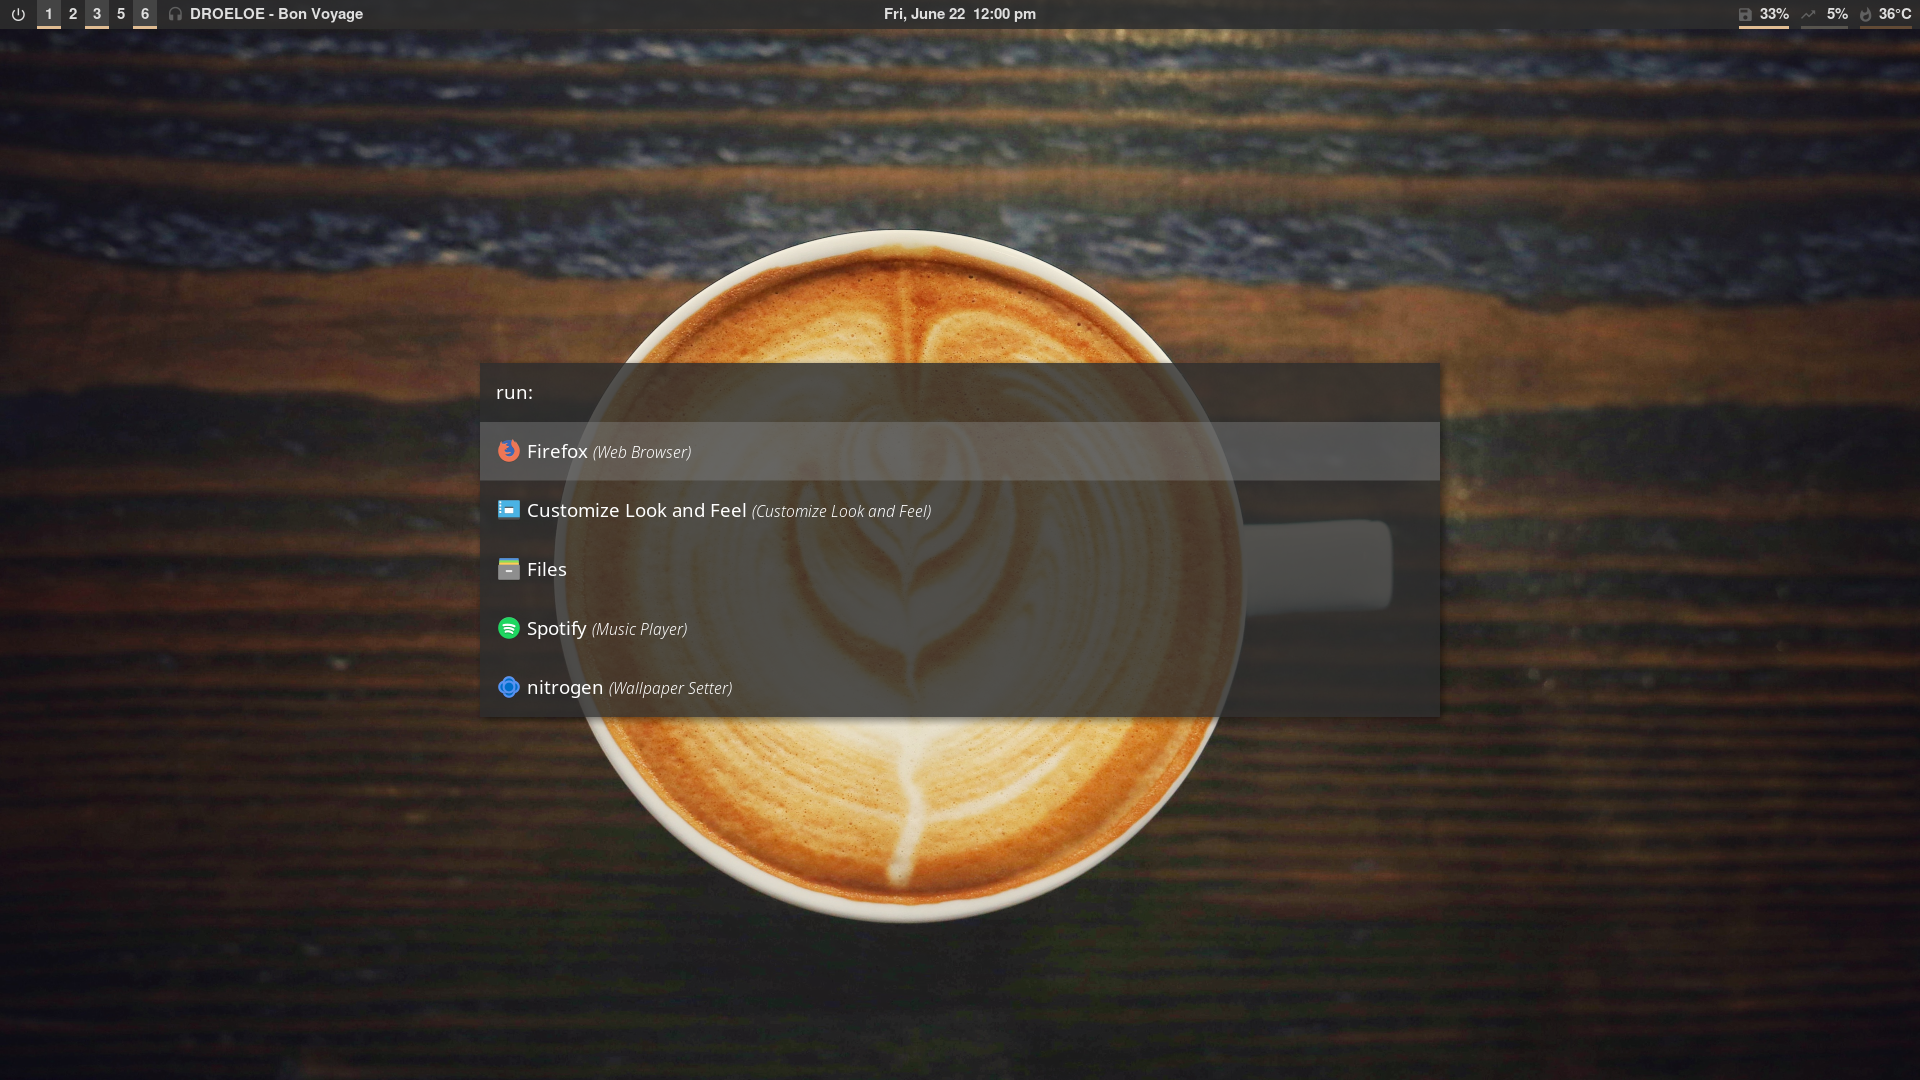
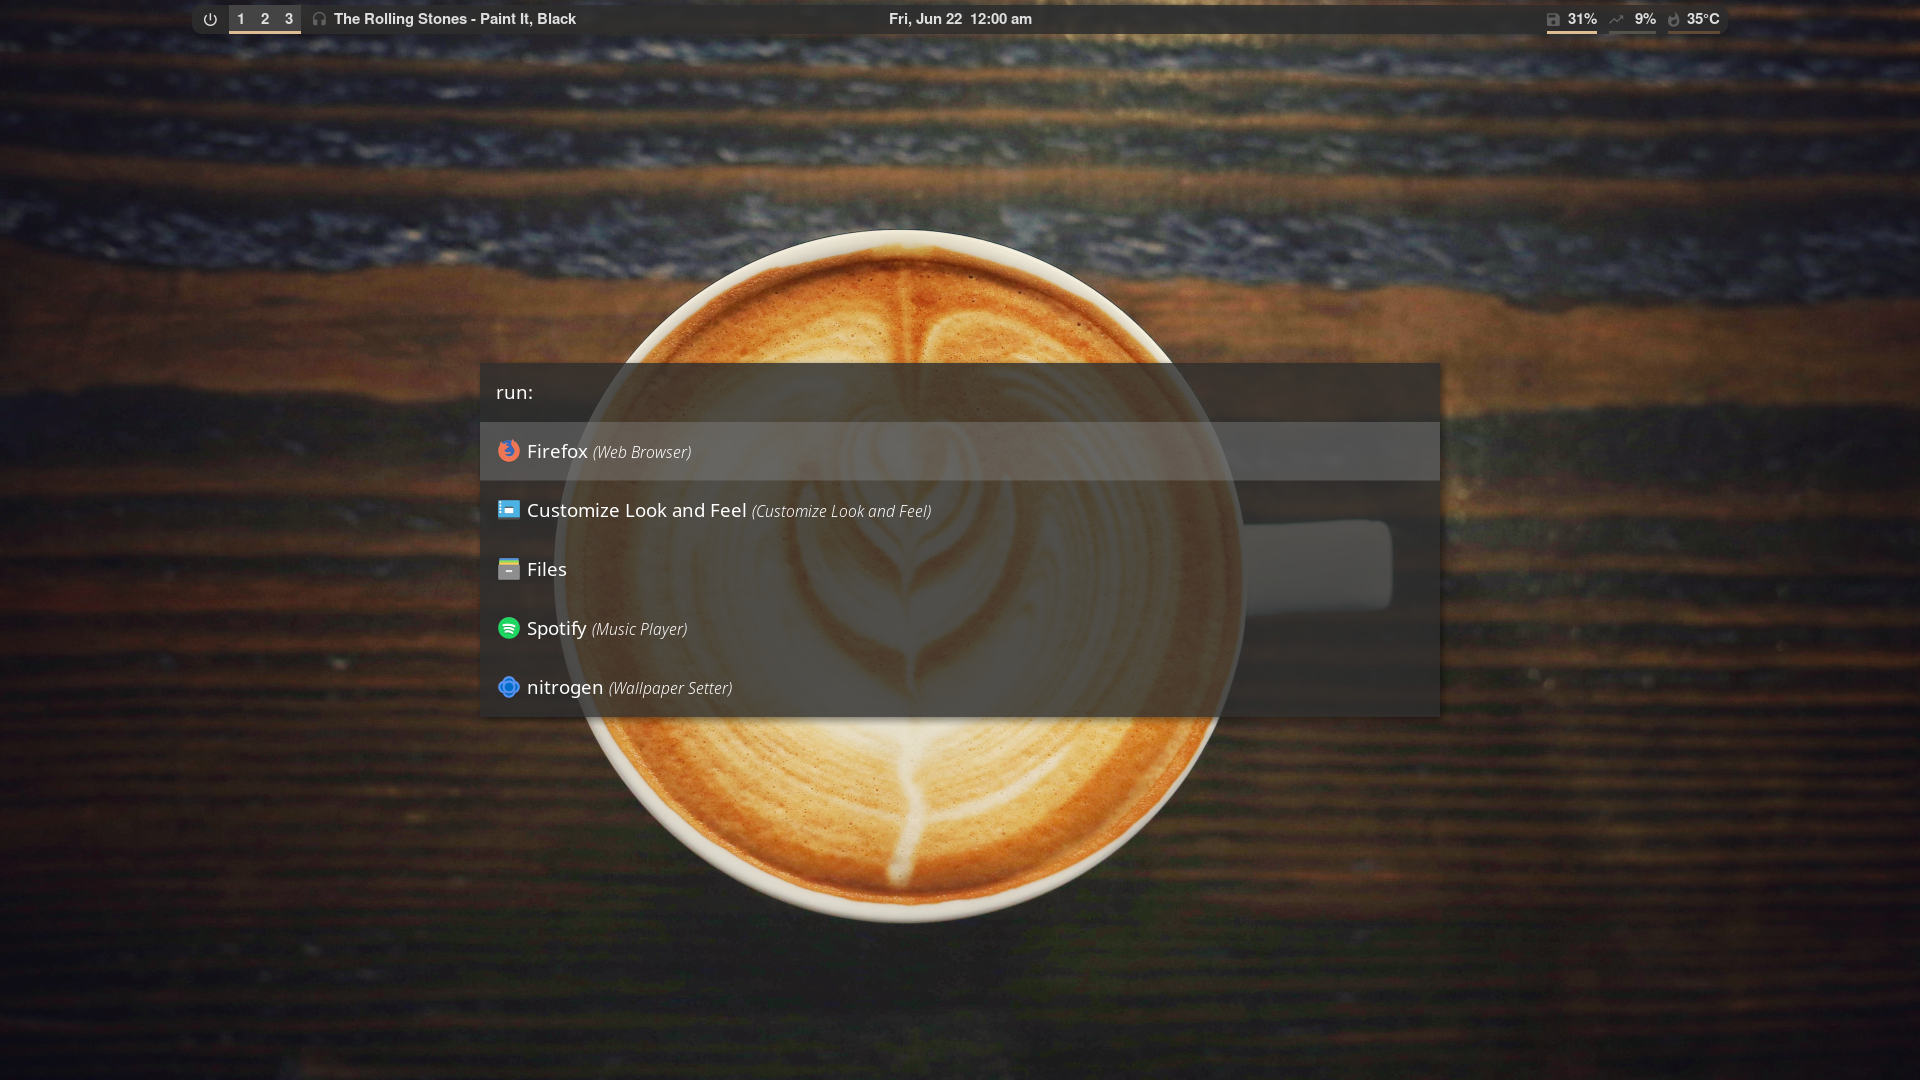
Update screenshots

Changed region(s): [[0.4062, 0.0, 0.75, 0.0306], [0.0, 0.0, 0.3125, 0.0306], [0.7812, 0.0, 1.0, 0.0306]]

diff --git a/README.md b/README.md
@@ -5,6 +5,6 @@ This repository contains all of the various configuration files I use on my Linu
 ## Screenshots
 
 ![alt text](/img/clean.png "Clean")
-![alt text](/img/dirty.png "Busy")
+![alt text](/img/busy.png "Busy")
 ![alt text](/img/rofi.png "Rofi")
 ![alt text](/img/vim.png "Vim")
